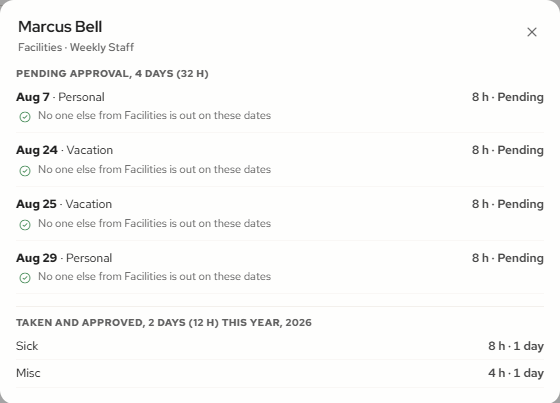
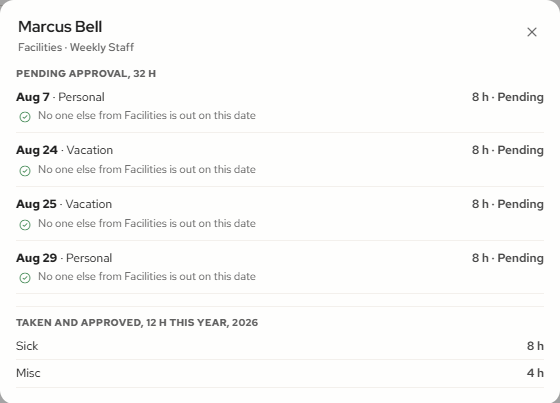
Payroll Scheduled Time Off: Person info in hours only, this date wording, Hrs heading aligned
Owner, 6 Oct: the pop-up shows hours as its one unit (the system has no fixed hours-per-day rule), so the section captions read 'Pending approval, 32 h' and 'Taken and approved, 12 h this year' and the by-type rows drop the day count. A one-day entry says 'is out on this date'; a range keeps 'these dates'. Dividers and the caption letter-spacing use Jo's tokens instead of a primitive grey and a px value. The day table's status column is one fixed width in the header and every row, so the Hrs heading sits over the hours whatever the row state. Driver updated; verify w09 green; shots 02, 03, 05, 07 retaken; handover bullet updated.

diff --git a/index.html b/index.html
@@ -1286,6 +1286,8 @@
   .w09-status.pend{color:var(--txt-secondary);font-weight:500;}
   .w09-status.ok{color:var(--txt-subtle);font-weight:400;font-size:var(--type-size-12);}
   .w09-actioncol{display:inline-flex;align-items:center;gap:var(--gap-tight);justify-content:flex-end;}
+  /* The day table's status column is one fixed width in the header and in every row, whatever the row's state holds (Pending + Approve is ~175px, Approved by + Undo ~252px), so the Hrs heading sits directly above the hours (owner, 6 Oct). */
+  .w09-l3 .w09-actioncol,.w09-colhead .ptof-statuscol{flex:0 0 256px;}
   .w09-l2-action{flex:0 0 auto;margin-left:var(--padding-tight);}
   .w09-abtn{display:inline-flex;align-items:center;gap:var(--gap-xxtight);font-family:inherit;font-size:var(--type-size-12);font-weight:600;line-height:1;border-radius:var(--cornerradius-medium);padding:var(--padding-xtight) var(--padding-medium);cursor:pointer;white-space:nowrap;border:1px solid;}
   .w09-abtn .material-symbols-rounded{font-size:var(--type-size-16);}
@@ -1446,14 +1448,14 @@
   /* Per-person Info popover, same card. */
   .ptof-info-hd-main{flex:1;display:flex;flex-direction:column;gap:var(--gap-xxxtight);min-width:0;}
   .ptof-info-hd-sub{font-size:var(--type-size-11);font-weight:500;color:var(--txt-subtle);}
-  .ptof-info-cap{font-size:var(--type-size-10);font-weight:700;text-transform:uppercase;letter-spacing:.4px;color:var(--txt-subtle);margin:var(--padding-xtight) 0 var(--padding-xxxtight);}
+  .ptof-info-cap{font-size:var(--type-size-10);font-weight:700;text-transform:uppercase;letter-spacing:var(--primitive-type-letter-spacing-wide);color:var(--txt-subtle);margin:var(--padding-xtight) 0 var(--padding-xxxtight);}
   .ptof-info-cap2{margin-top:var(--padding-medium);padding-top:var(--padding-tight);border-top:1px solid var(--stroke-widget);}
-  .ptof-info-typ{display:flex;align-items:center;gap:var(--gap-tight);padding:var(--padding-xxtight) 0;border-bottom:1px solid var(--wn-200);}
+  .ptof-info-typ{display:flex;align-items:center;gap:var(--gap-tight);padding:var(--padding-xxtight) 0;border-bottom:1px solid var(--stroke-widget);}
   .ptof-info-typ-nm{flex:1;font-size:var(--type-size-12);color:var(--txt-primary);}
   .ptof-info-typ-n{font-size:var(--type-size-12);font-weight:600;color:var(--txt-secondary);font-variant-numeric:tabular-nums;}
   .ptof-info-empty{font-size:var(--type-size-12);color:var(--txt-subtle);padding:var(--padding-tight) 0;}
   .ptof-info-pend{border-bottom:none;padding-bottom:var(--padding-xxxtight);}
-  .ptof-info-conf{display:flex;align-items:flex-start;gap:var(--gap-xtight);font-size:var(--type-size-11);line-height:1.4;padding:0 0 var(--padding-tight) var(--padding-xxxtight);margin-bottom:var(--padding-xxtight);border-bottom:1px solid var(--wn-200);color:var(--txt-subtle);}
+  .ptof-info-conf{display:flex;align-items:flex-start;gap:var(--gap-xtight);font-size:var(--type-size-11);line-height:1.4;padding:0 0 var(--padding-tight) var(--padding-xxxtight);margin-bottom:var(--padding-xxtight);border-bottom:1px solid var(--stroke-widget);color:var(--txt-subtle);}
   .ptof-info-conf .material-symbols-rounded{font-size:var(--type-size-14);flex:0 0 auto;margin-top:var(--padding-xxxtight);}
   .ptof-info-conf.ok .material-symbols-rounded{color:var(--ptof-st-appr);}
   .ptof-info-conf.warn{color:var(--txt-secondary);}
@@ -7150,18 +7152,18 @@ function ptoFDayDetailHTML(){
    one else is off during these dates." The subject's own department and
    pay group sit in the header. Informational only, no approve action
    here. ---------------------------------------------------------------- */
-/* Person pop-up: two sections. Pending approval (days by leave type this year, and who else from the same
-   department is out during those pending dates) and Taken and approved (days by type). Informational only. */
+/* Person pop-up: two sections. Pending approval (each pending day with its hours, and who else from the same
+   department is out on it) and Taken and approved (hours by type). Hours only: the system has no fixed hours-per-day rule (owner, 6 Oct). Informational only. */
 function ptoFPersonDaysByState(w,pk,approved){var out={},hrs={},lines=[],hours=0;ptoFYearFlat(w).forEach(function(fe){if(fe.personKey!==pk)return;var isA=(ptoFEff(w,fe)==="Approved");if(isA!==approved)return;out[fe.type]=(out[fe.type]||0)+ptoFEntryDays(fe);hrs[fe.type]=(hrs[fe.type]||0)+(fe.hours||0);hours+=(fe.hours||0);lines.push(fe);});return {by:out,hrs:hrs,tot:ptoFDistinctDays(lines),hours:hours};}
 function ptoFSameDeptOut(w,pk,dept,fe){var out=[],seen={};ptoFFlat(w).forEach(function(o){if(o.personKey===pk||o.dept!==dept||!ptoFRangesOverlap(fe,o)||seen[o.personKey])return;seen[o.personKey]=1;out.push({person:o.person,type:o.type,dates:ptoFDates(o),status:ptoFEffState(w,o)});});return out;}
-function ptoFInfoTypes(st){var by=st.by,hrs=st.hrs||{};var rows=PTOF_LEAVE_TYPES.filter(function(o){return (by[o.key]||0)>0;});if(!rows.length)return '<div class="ptof-info-empty">None</div>';return rows.map(function(o){var n=by[o.key],h=hrs[o.key]||0;return '<div class="ptof-info-typ"><span class="ptof-info-typ-nm">'+o.key+'</span><span class="ptof-info-typ-n">'+h+' h &middot; '+n+(n===1?" day":" days")+'</span></div>';}).join("");}
+function ptoFInfoTypes(st){var by=st.by,hrs=st.hrs||{};var rows=PTOF_LEAVE_TYPES.filter(function(o){return (by[o.key]||0)>0;});if(!rows.length)return '<div class="ptof-info-empty">None</div>';return rows.map(function(o){var n=by[o.key],h=hrs[o.key]||0;return '<div class="ptof-info-typ"><span class="ptof-info-typ-nm">'+o.key+'</span><span class="ptof-info-typ-n">'+h+' h</span></div>';}).join("");}
 /* one pending entry: its dates, type and state, then the same-department coverage on those dates (named up to three, otherwise a count) */
 function ptoFInfoPendingRow(w,pk,dept,fe){
-  var n=ptoFEntryDays(fe),others=ptoFSameDeptOut(w,pk,dept,fe),st=ptoFEffState(w,fe);
+  var n=ptoFEntryDays(fe),others=ptoFSameDeptOut(w,pk,dept,fe),st=ptoFEffState(w,fe),when=(n>1?"these dates":"this date");
   var head='<div class="ptof-info-typ ptof-info-pend"><span class="ptof-info-typ-nm"><strong>'+ptoFDates(fe)+'</strong> &middot; '+fe.type+'</span><span class="ptof-info-typ-n">'+(fe.hours||0)+' h &middot; '+st+'</span></div>';
   var conf;
-  if(!others.length)conf='<div class="ptof-info-conf ok">'+ICON("check_circle")+'No one else from '+dept+' is out on these dates</div>';
-  else if(others.length>3)conf='<div class="ptof-info-conf warn">'+ICON("groups")+others.length+' others from '+dept+' are out on these dates</div>';
+  if(!others.length)conf='<div class="ptof-info-conf ok">'+ICON("check_circle")+'No one else from '+dept+' is out on '+when+'</div>';
+  else if(others.length>3)conf='<div class="ptof-info-conf warn">'+ICON("groups")+others.length+' others from '+dept+' are out on '+when+'</div>';
   else conf='<div class="ptof-info-conf warn">'+ICON("groups")+'Also out from '+dept+': '+others.map(function(o){return o.person+' ('+o.dates+', '+o.type+', '+o.status+')';}).join("; ")+'</div>';
   return head+conf;
 }
@@ -7170,15 +7172,14 @@ function ptoFInfoPanelHTML(){
   var w=find(st.id);if(!w)return "";
   var pk=st.pk;var nm=ptoFPersonName(pk);var meta=ptoFPersonMeta(w,pk);
   var pending=ptoFFlat(w).filter(function(fe){return fe.personKey===pk&&ptoFEff(w,fe)!=="Approved";}).sort(function(a,b){return (a.year-b.year)||(a.mo-b.mo)||(a.d-b.d);});
-  var pendDays=ptoFDistinctDays(pending),pendHours=pending.reduce(function(a,fe){return a+(fe.hours||0);},0);
+  var pendHours=pending.reduce(function(a,fe){return a+(fe.hours||0);},0);
   var appr=ptoFPersonDaysByState(w,pk,true);
-  var days=function(n){return n+(n===1?" day":" days");};
   var pendHtml=pending.length?pending.map(function(fe){return ptoFInfoPendingRow(w,pk,meta.dept,fe);}).join(""):'<div class="ptof-info-empty">Nothing is waiting on approval.</div>';
   return '<div class="modal-backdrop" data-pto="pto-ovl-close"><div class="modal ptof-ovl" data-pto="stop" role="dialog" aria-modal="true" aria-label="Time off detail for '+ptoFEsc(nm+", "+meta.dept+", "+meta.pg)+'">'+
     '<div class="modal-h"><div class="ptof-info-hd-main"><span class="modal-title">'+nm+'</span><span class="ptof-info-hd-sub">'+meta.dept+' &middot; '+meta.pg+'</span></div><button class="iconbtn" data-pto="pto-ovl-close" aria-label="Close detail">'+ICON("close")+'</button></div>'+
     '<div class="modal-b ptof-ovl-b">'+
-      '<div class="ptof-info-cap">Pending approval, '+days(pendDays)+' ('+pendHours+' h)</div>'+pendHtml+
-      '<div class="ptof-info-cap ptof-info-cap2">Taken and approved, '+days(appr.tot)+' ('+appr.hours+' h) this year, '+PTOF_WORK_Y+'</div>'+ptoFInfoTypes(appr)+
+      '<div class="ptof-info-cap">Pending approval, '+pendHours+' h</div>'+pendHtml+
+      '<div class="ptof-info-cap ptof-info-cap2">Taken and approved, '+appr.hours+' h this year, '+PTOF_WORK_Y+'</div>'+ptoFInfoTypes(appr)+
     '</div></div></div>';
 }
 

diff --git a/_tools/w09-pto.driver.js b/_tools/w09-pto.driver.js
@@ -102,7 +102,7 @@ if (person) {
   const el2 = env.shim.mkTarget({ "data-pto": "pto-unapprove", "data-id": w.id, "data-day": ids }, "button"); el2.closest = function (sel) { return sel.indexOf("data-pto") > -1 ? el2 : null; }; EX.pto.click({ target: el2 });
   A.ok(idList.every(function (id) { return (w.ptofAppr || {})[id] === "Pending"; }), "undoing the day returns both lines to pending");
   const ih = EX.pto.info(w.id, dana); A.eq((ih.match(/<strong>Aug 20<\/strong>/g) || []).length, 2, "the pop-up shows the split as two rows for Aug 20"); A.contains(ih, "4 h &middot; Pending", "each pending row carries its hours");
-  const pendCap = (ih.match(/Pending approval, (\d+) days? \((\d+) h\)/) || []); A.ok(pendCap.length && +pendCap[1] === 4 && +pendCap[2] === 32, "pop-up header counts distinct days with hours (" + pendCap[0] + ")");
+  const pendCap = (ih.match(/Pending approval, (\d+) h</) || []); A.ok(pendCap.length && +pendCap[1] === 32, "pop-up header totals the pending hours, hours only (" + pendCap[0] + ")"); A.absent(ih, " day", "no day counts in the pop-up: hours are the one format (owner, 6 Oct)");
   w.ptofView = "calendar"; const hc = EX.contentHTML(w); const aug20 = (hc.match(/data-day="20"[\s\S]*?ptof-marks">([\s\S]*?)<\/div>/) || ["", ""])[1]; A.eq((aug20.match(/>DW</g) || []).length, 1, "the calendar shows Dana once on Aug 20 (" + (aug20.match(/ptof-mark /g) || []).length + " people marked)"); w.ptofView = "queue";
   delete w.ptofOpen[dana];
 })();
@@ -110,7 +110,7 @@ if (person) {
 if (person) {
   const ih = EX.pto.info(w.id, person);
   A.ok(ih.length > 400, "Info pop-up renders (" + ih.length + " bytes)"); A.absent(ih, "Placeholder", "no placeholder note in the pop-up");
-  A.contains(ih, "Pending approval, ", "Pending approval section with its day count"); A.contains(ih, "Taken and approved, ", "Taken and approved section with its day count");
+  A.contains(ih, "Pending approval, ", "Pending approval section with its hours"); A.contains(ih, "Taken and approved, ", "Taken and approved section with its hours"); A.ok(/is out on this date|are out on this date|Also out from/.test(ih), "a one-day entry says \"this date\"");
   A.ok(/ptof-info-pend"><span class="ptof-info-typ-nm"><strong>[A-Z][a-z]{2} \d+/.test(ih), "each pending entry shows its dates");
   A.ok(/ptof-info-conf (ok|warn)"/.test(ih), "each pending entry carries a same-department coverage line");
   A.ok(!/(\d+) others from [^<]+ are out|Also out from [^<]+: [^;]+;[^;]+;[^;]+;/.test(ih) || true, "more than three colleagues collapse to a count");

diff --git a/handover.html b/handover.html
@@ -574,7 +574,7 @@ main{padding:20px 16px 60px} .widget{padding:18px 16px} .pair-grid{grid-template
 </ul>
 <h4>Pop-ups</h4>
 <ul>
-<li><strong>Pop-up - Person info:</strong> new, from the Info button. Name and "Department · Pay Group"; "Pending approval, N days (H h)", each pending day with date, type, hours and state, and under it who else from the same department is out on that date (green "No one else from [dept] is out on these dates", up to three colleagues named, or "N others from [dept] are out"); then "Taken and approved, N days (H h) this year" by leave type. No Approve here.</li>
+<li><strong>Pop-up - Person info:</strong> new, from the Info button. Name and "Department · Pay Group"; "Pending approval, H h", each pending day with date, type, hours and state, and under it who else from the same department is out on that date (green "No one else from [dept] is out on this date", up to three colleagues named, or "N others from [dept] are out"); then "Taken and approved, H h this year" by leave type. Hours are the only unit shown: the system has no fixed hours-per-day rule, so days are never derived from hours. No Approve here.</li>
 <li><strong>Pop-up - Calendar day:</strong> new. Click a day or a marker: everyone out that day with department, pay group, type, hours, an Outstanding tag where it applies and a status chip; footer "N people out. Approvals are handled in the Approval Queue."</li>
 <li><strong>Pop-up - Approve confirmation:</strong> removed with the employee-level button. V1 listed the pending days and asked to confirm "Approve N days".</li>
 </ul>
